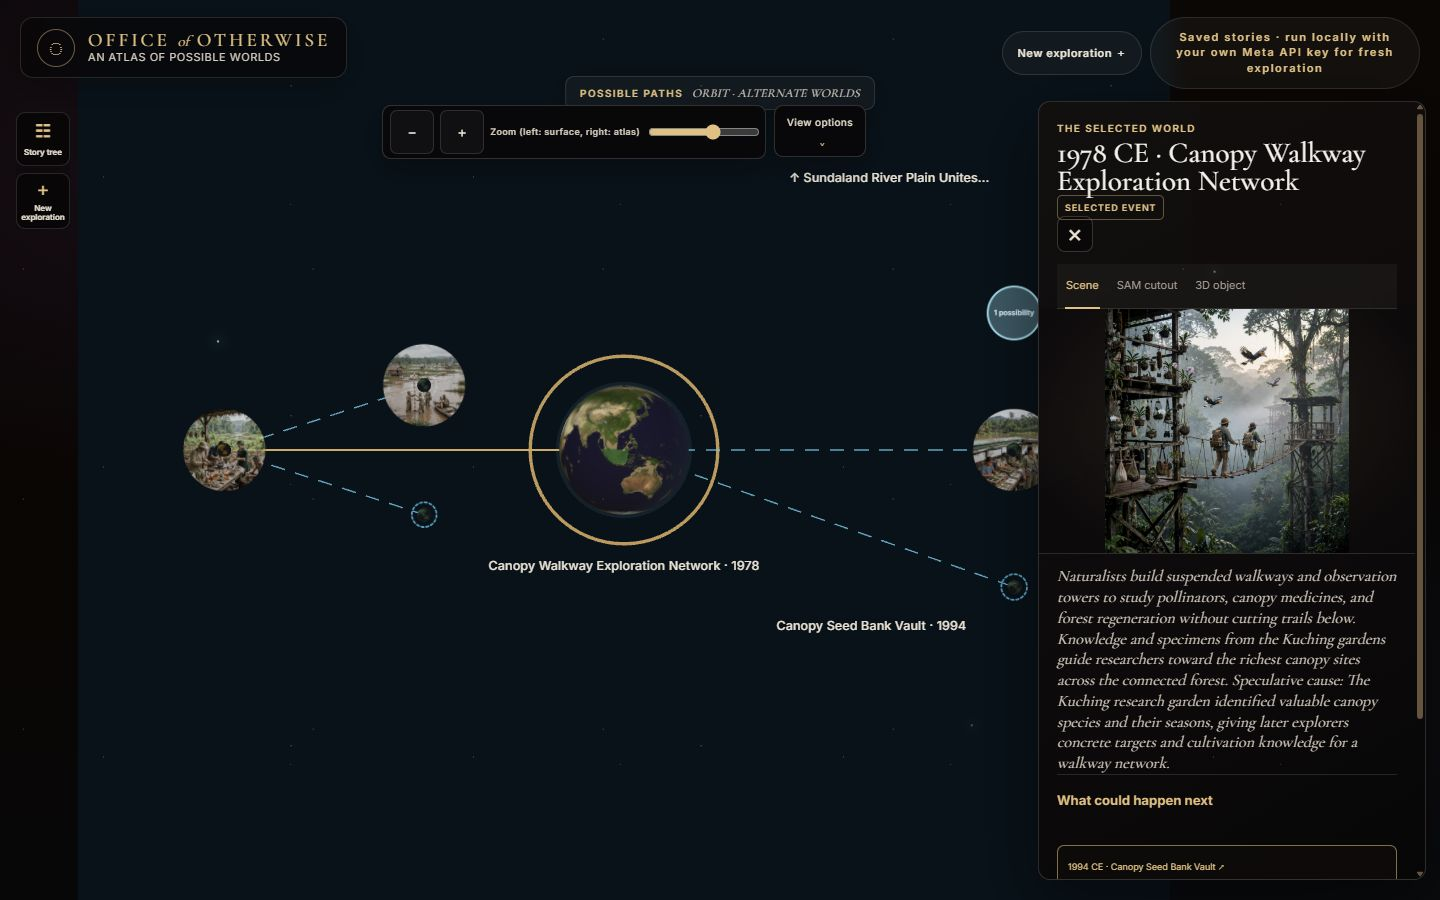
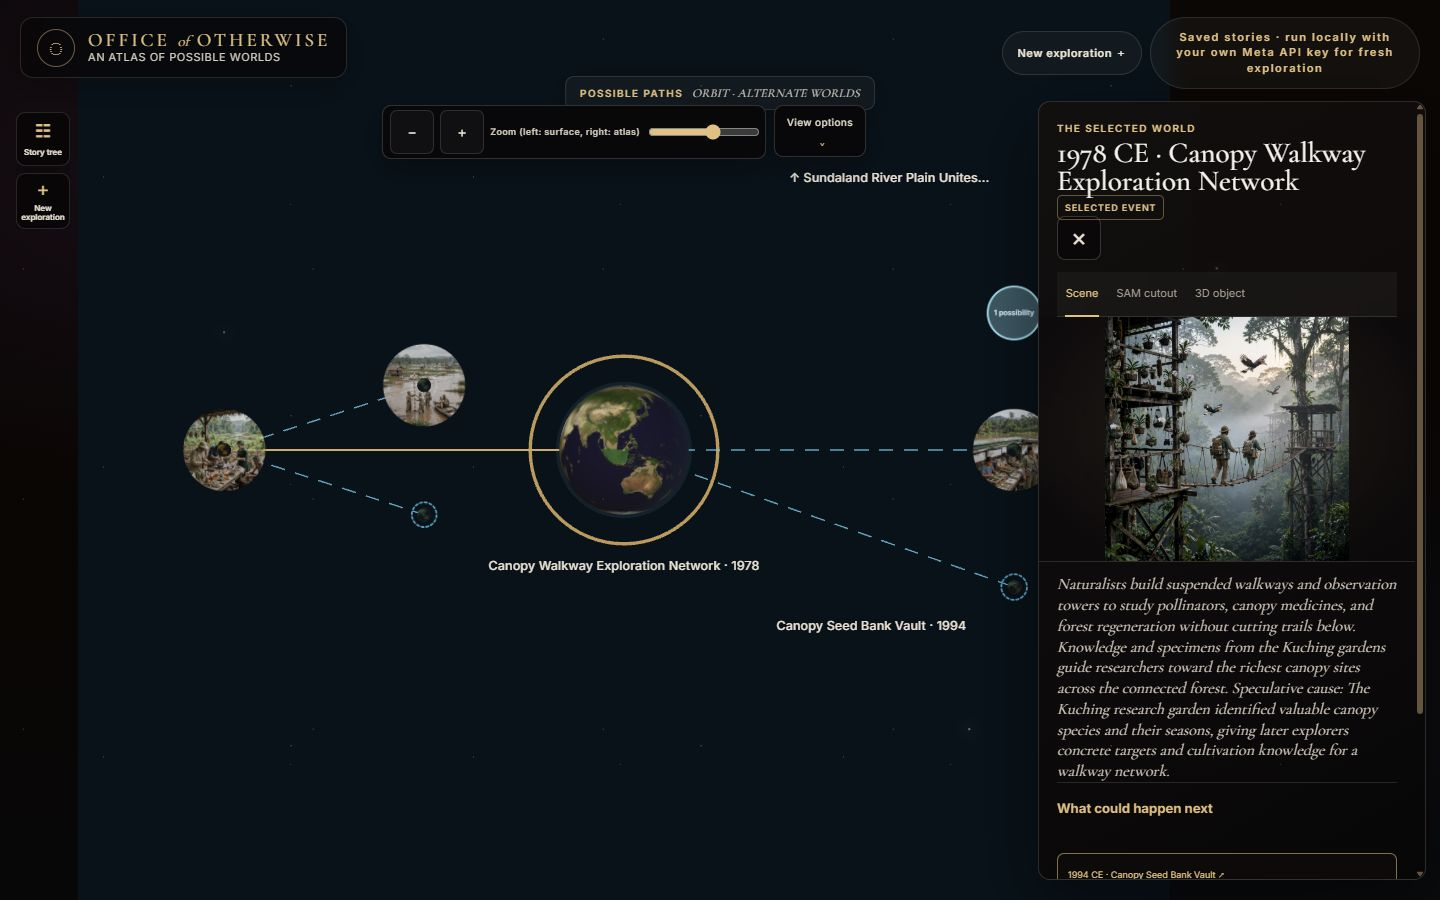
Increase selected-world close target to 44px

Changed region(s): [[0.7188, 0.3111, 0.9688, 0.9022], [0.75, 0.9333, 0.8438, 0.9956]]

diff --git a/test/atlasAppIntegration.test.js b/test/atlasAppIntegration.test.js
@@ -74,6 +74,8 @@ test('Orbit compact panels expose a selected-world card and accessible controls'
   assert.match(css, /@media\(max-width:700px\)[\s\S]*body\.atlas-details-open:has\(#atlas-scene\[data-atlas-level="orbit"\]\) \.hero-panel,\s*body\.atlas-details-open:has\(#atlas-scene\[data-atlas-level="atlas"\]\) \.hero-panel\{top:184px;right:9px;bottom:10px;left:9px;width:auto;height:auto;max-height:calc\(100dvh - 130px\);overflow:auto\}/, 'the phone details sheet starts below the zoom toolbar and scrolls within the remaining viewport');
   assert.match(css, /body\.atlas-details-open:has\(#atlas-scene\[data-atlas-level="atlas"\]\) \.hero-panel\{top:218px\}/, 'the Atlas phone sheet starts below the additional Other questions control');
   assert.match(css, /\.atlas-details-close\[hidden\]\{display:none!important\}/, 'the separate details close control only appears while details are open');
+  assert.match(css, /\.atlas-details-close\{[^}]*flex:0 0 44px;width:44px;min-width:44px;min-height:44px/,
+    'the visible phone details close action has a 44px touch target');
   assert.match(app, /const cardHidden = !compact \|\| detailsOpen \|\| card\.hidden;[\s\S]*card\.inert = cardHidden;[\s\S]*card\.setAttribute\('aria-hidden', String\(cardHidden\)\)/, 'the hidden compact card leaves keyboard and accessibility navigation');
   assert.match(css, /\.atlas-world-card\{display:grid;position:absolute;[\s\S]*?opacity:0;visibility:hidden/, 'the card stays renderable so Orbit can fade it in');
   assert.match(css, /\.atlas-world-card\{display:grid;position:absolute;[\s\S]*?transition:opacity \.12s ease \.12s,transform \.16s ease \.08s,visibility 0s linear \.08s/, 'the card appears after the full details fade away');

diff --git a/web/style.css b/web/style.css
@@ -421,7 +421,7 @@ body:has(#atlas-scene[data-atlas-level="atlas"]) .hero-panel>:not(.atlas-world-c
 .atlas-world-card-copy strong{color:var(--parchment);font:500 17px/1.05 var(--serif);overflow:hidden;text-overflow:ellipsis;display:-webkit-box;-webkit-box-orient:vertical;-webkit-line-clamp:2}
 .atlas-world-card-copy span{color:var(--neutral-200);font:12px/1.3 var(--sans)}
 .atlas-world-card button{grid-column:1/-1;min-height:42px;border:1px solid #e5c07b66;border-radius:7px;background:rgba(229,192,123,.1);color:#ffe4a8;font:600 11px var(--sans);cursor:pointer}
-.atlas-details-close{display:grid;place-items:center;flex:0 0 36px;width:36px;min-height:36px;padding:0;border:1px solid rgba(236,228,212,.2);border-radius:8px;background:rgba(8,6,7,.72);color:var(--parchment);font:400 24px/1 var(--sans);cursor:pointer}
+.atlas-details-close{display:grid;place-items:center;flex:0 0 44px;width:44px;min-width:44px;min-height:44px;padding:0;border:1px solid rgba(236,228,212,.2);border-radius:8px;background:rgba(8,6,7,.72);color:var(--parchment);font:400 24px/1 var(--sans);cursor:pointer}
 .atlas-details-close[hidden]{display:none!important}
 .atlas-details-close:focus-visible{outline:2px solid var(--cyan);outline-offset:2px}
 body:has(#atlas-scene[data-atlas-level="orbit"]) .atlas-world-card,

diff --git a/docs/HACKATHON.md b/docs/HACKATHON.md
@@ -170,3 +170,4 @@ Event: Meta Global AI Developer Hackathon. Building Oct 27 – Nov 4, 2026. **Su
 | 2026-11-01 | Atlas round 3: capture the open detail sheet at desktop and phone sizes after browser focus and visibility checks. | |
 | 2026-11-01 | Atlas round 3: keep the phone detail sheet below the zoom toolbar and Atlas question toggle. | |
 | 2026-11-01 | Atlas round 3: add compact overflow lanes for crowded phone child labels while retaining full-width labels where space permits. | |
+| 2026-11-01 | Atlas round 3: enlarge the selected-world close control to a 44px touch target and verify it on phone and desktop. | |
